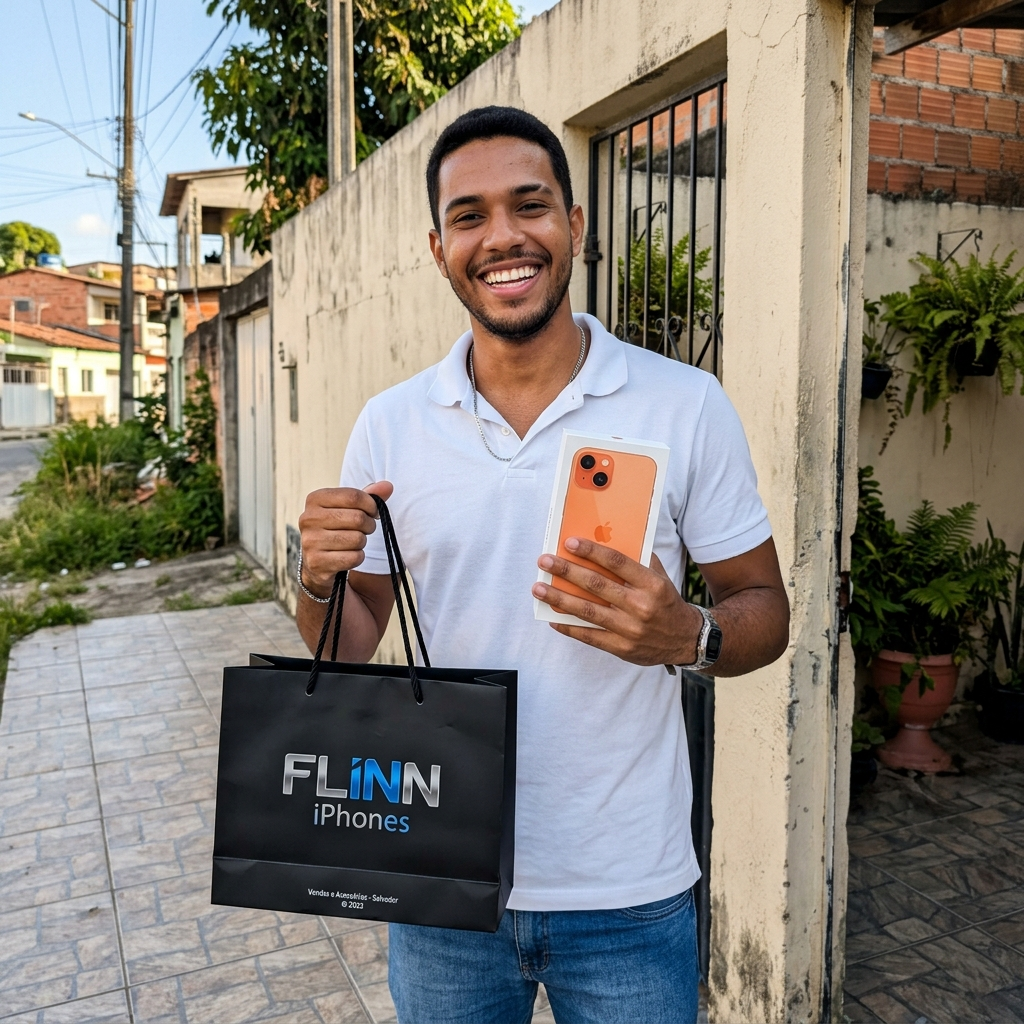
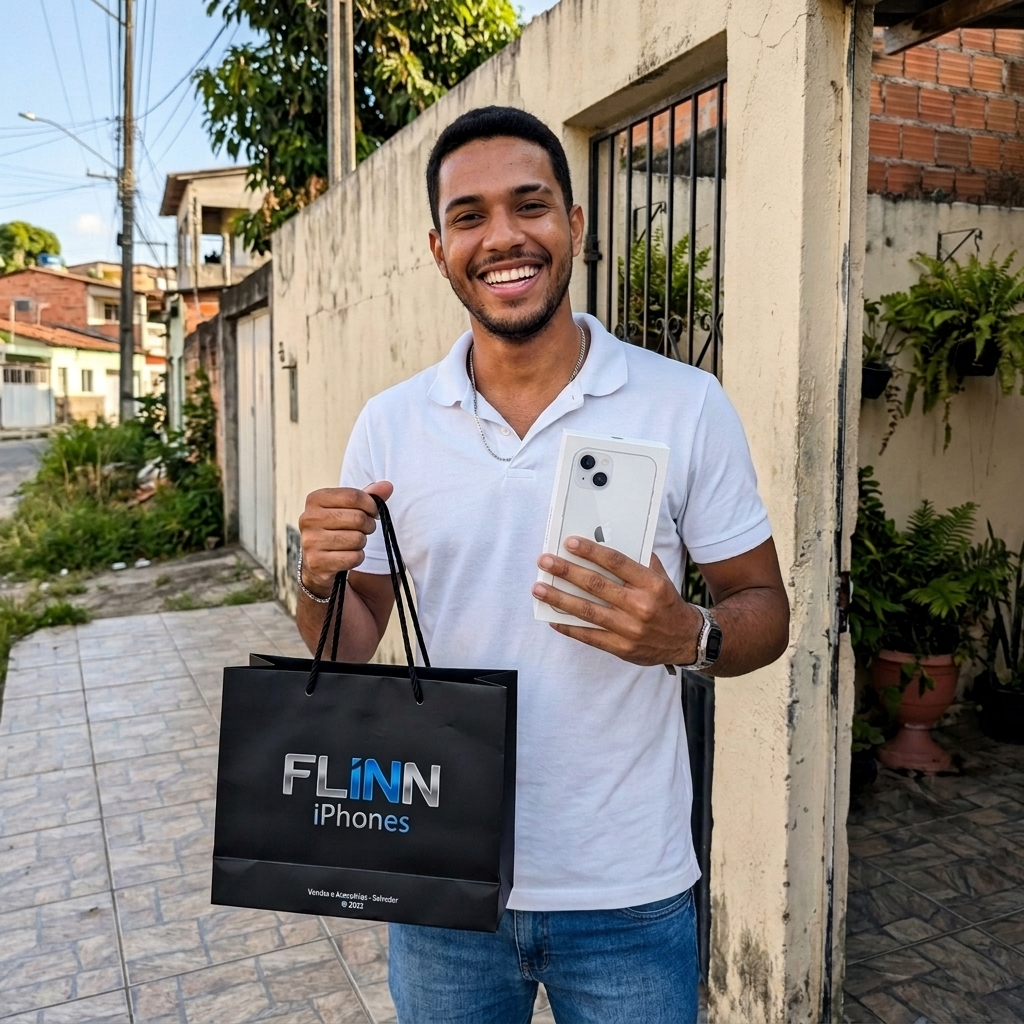
Add files via upload

Changed region(s): [[0.5312, 0.4375, 0.6562, 0.5938]]

diff --git a/FLINN-IPHONES-UPLOAD-GITHUB/public/index.html b/FLINN-IPHONES-UPLOAD-GITHUB/public/index.html
@@ -53,6 +53,24 @@
 
   <!-- Custom Stylesheet -->
   <link rel="stylesheet" href="/style.css">
+
+  <!-- Meta Pixel Code -->
+  <script>
+  !function(f,b,e,v,n,t,s)
+  {if(f.fbq)return;n=f.fbq=function(){n.callMethod?
+  n.callMethod.apply(n,arguments):n.queue.push(arguments)};
+  if(!f._fbq)f._fbq=n;n.push=n;n.loaded=!0;n.version='2.0';
+  n.queue=[];t=b.createElement(e);t.async=!0;
+  t.src=v;s=b.getElementsByTagName(e)[0];
+  s.parentNode.insertBefore(t,s)}(window, document,'script',
+  'https://connect.facebook.net/en_US/fbevents.js');
+  fbq('init', '917819694485445');
+  fbq('track', 'PageView');
+  </script>
+  <noscript><img height="1" width="1" style="display:none"
+  src="https://www.facebook.com/tr?id=917819694485445&ev=PageView&noscript=1"
+  /></noscript>
+  <!-- End Meta Pixel Code -->
 </head>
 <body class="bg-brand-dark text-slate-100 font-sans selection:bg-brand-blue selection:text-white antialiased overflow-x-hidden min-h-screen">
 
